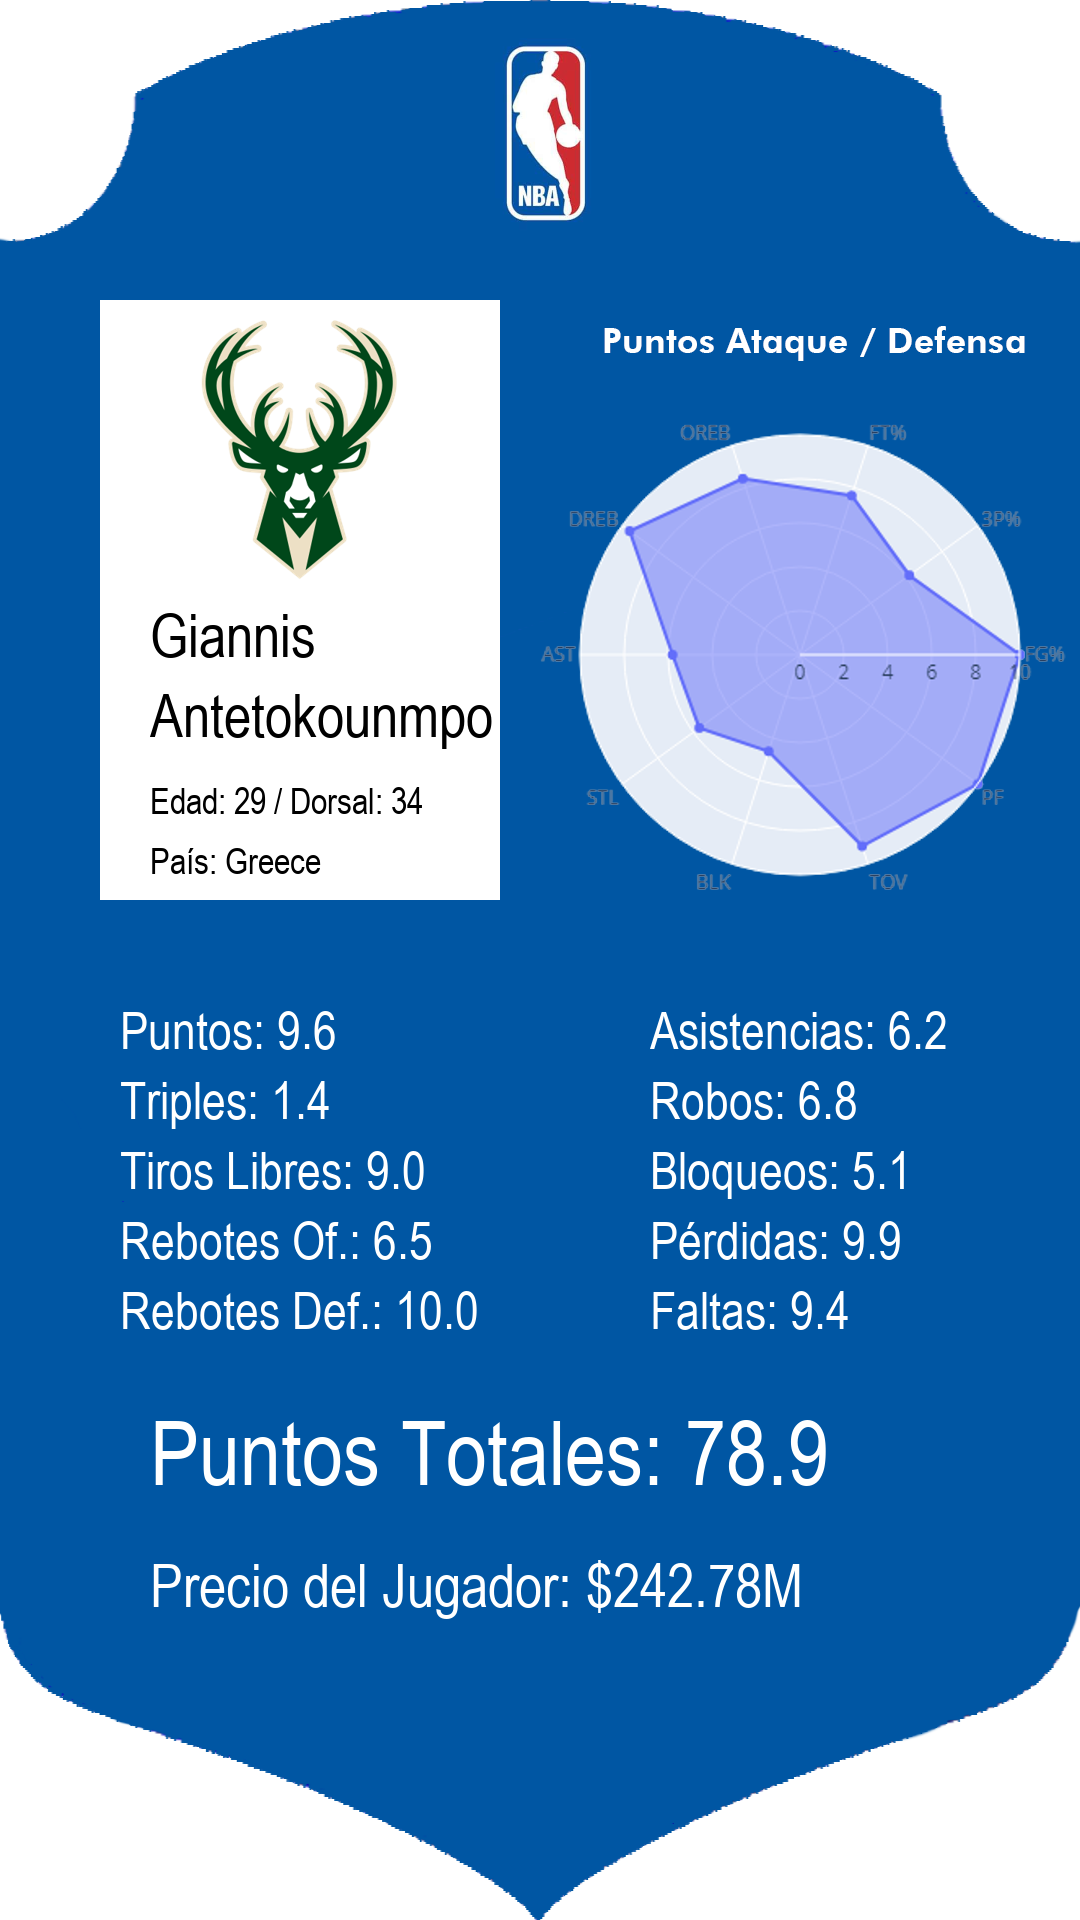
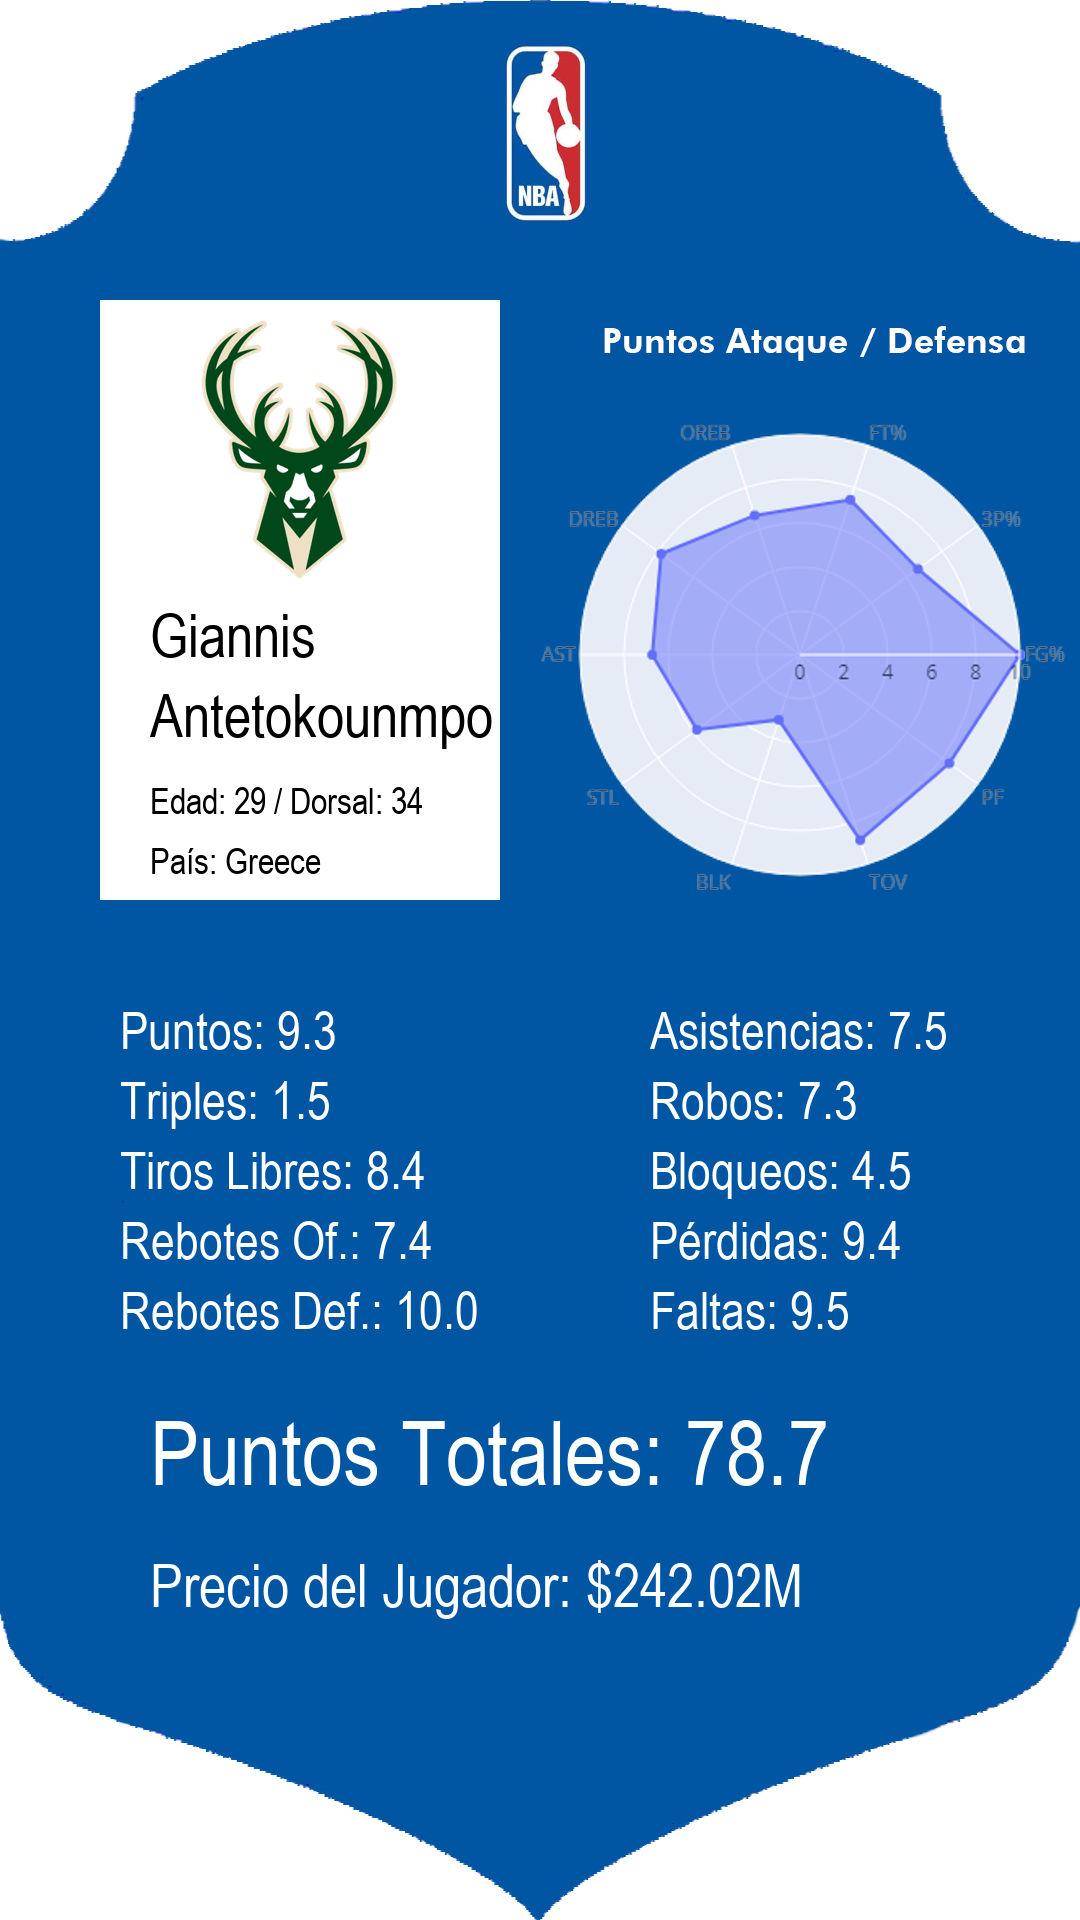
actualiza

diff --git a/streamlit/modules/tarjetas_nba.py b/streamlit/modules/tarjetas_nba.py
@@ -1,108 +1,140 @@
+import pandas as pd
 import os
-import plotly.graph_objects as go
-from PIL import Image, ImageDraw, ImageFont
-from io import BytesIO
 
-def crear_ficha_jugador(df_puntuaciones_finales, jugador):
-    categorias = ['FG%', '3P%', 'FT%', 'OREB', 'DREB', 'AST', 'STL', 'BLK', 'TOV', 'PF']
+def cargar_datos(ruta_equipos, ruta_jugadores):
+    """
+    Carga los datos de los equipos y jugadores desde archivos Excel.
+
+    Args:
+    ruta_equipos (str): Ruta del archivo Excel con los datos de los equipos.
+    ruta_jugadores (str): Ruta del archivo Excel con los datos de los jugadores.
+
+    Returns:
+    pd.DataFrame: DataFrame con los datos de los jugadores.
+    """
+    df_equipos_nba = pd.read_excel(ruta_equipos)
+    df_jugadores_nba = pd.read_excel(ruta_jugadores)
+    return df_jugadores_nba
+
+def calcular_puntuaciones(df_jugadores_nba):
+    """
+    Calcula las puntuaciones de los jugadores y devuelve el DataFrame con las puntuaciones finales.
+
+    Args:
+    df_jugadores_nba (pd.DataFrame): DataFrame que contiene los datos de los jugadores.
+
+    Returns:
+    pd.DataFrame: DataFrame con las puntuaciones finales de los jugadores.
+    """
+    estadisticas = ['MIN', 'PTS', 'FGM', 'FGA', '3PM', '3PA', 'FTM', 'FTA', 'OREB', 'DREB', 'REB', 'AST', 'STL', 'BLK', 'TOV', 'PF', 'EFF']
     
-    jugador_normalizado = jugador.copy()
-    for cat in categorias:
-        max_value = df_puntuaciones_finales[cat].max()
-        if max_value > 0:
-            jugador_normalizado[cat] = (jugador[cat] / max_value) * 10
-
-    fig = go.Figure()
-
-    fig.add_trace(go.Scatterpolar(
-        r=[jugador_normalizado[cat] for cat in categorias] + [jugador_normalizado[categorias[0]]],
-        theta=categorias + [categorias[0]],
-        fill='toself'
-    ))
-
-    fig.update_layout(
-        polar=dict(
-            radialaxis=dict(visible=True, range=[0, 10])
-        ),
-        showlegend=False,
-        paper_bgcolor='rgba(0,0,0,0)',  # Fondo transparente
-        plot_bgcolor='rgba(0,0,0,0)'   # Fondo transparente
-    )
-
-    try:
-        img_bytes = fig.to_image(format="png", width=430, height=600, scale=1)
-    except ValueError as e:
-        raise ValueError(f"Error al generar la imagen: {e}. Asegúrate de que `kaleido` está instalado correctamente.") from e
-    except Exception as e:
-        raise Exception(f"Se produjo un error inesperado al generar la imagen: {e}") from e
+    df_estadisticas_jugadores = df_jugadores_nba.copy()
+    for stat in estadisticas:
+        df_estadisticas_jugadores[stat + '_por_GP'] = df_estadisticas_jugadores[stat] / df_estadisticas_jugadores['GP']
     
-    grafica_radar = Image.open(BytesIO(img_bytes))
+    df_estadisticas_jugadores = df_estadisticas_jugadores[df_estadisticas_jugadores['GP'] != 0]
 
-    carpeta_logos = 'logos_equipos/png/'
-    ruta_fuente = "c:/windows/fonts/arialn.ttf"
-    tamaño_fuente_grande = 60
-    tamaño_fuente_pequeña = 36
-    tamaño_fuente_mediana = 52
-    tamaño_fuente_muy_grande = 90
-    fuente_grande = ImageFont.truetype(ruta_fuente, tamaño_fuente_grande)
-    fuente_pequeña = ImageFont.truetype(ruta_fuente, tamaño_fuente_pequeña)
-    fuente_mediana = ImageFont.truetype(ruta_fuente, tamaño_fuente_mediana)
-    fuente_muy_grande = ImageFont.truetype(ruta_fuente, tamaño_fuente_muy_grande)
-    categorias_datos = {
-        'PTS_por_GP_normalizado': 'Puntos',
-        '3PM_por_GP_normalizado': 'Triples',
-        'FTM_por_GP_normalizado': 'Tiros Libres',
-        'OREB_por_GP_normalizado': 'Rebotes Of.',
-        'DREB_por_GP_normalizado': 'Rebotes Def.',
-        'AST_por_GP_normalizado': 'Asistencias',
-        'STL_por_GP_normalizado': 'Robos',
-        'BLK_por_GP_normalizado': 'Bloqueos',
-        'TOV_por_GP_normalizado': 'Pérdidas',
-        'PF_por_GP_normalizado': 'Faltas'
-    }
-    espaciado_vertical = 70
+    varianzas = df_estadisticas_jugadores[estadisticas].var()
+    cuartiles = df_estadisticas_jugadores[estadisticas].quantile([0.25, 0.75])
 
-    imagen_fondo = Image.open('streamlit/sources/tarjeta_base_nba.png')
-    grafica_radar = grafica_radar.resize((700, 977))
-    imagen_fondo.paste(grafica_radar, (450, 150), grafica_radar)
+    def normalizar_min_max(df, columnas):
+        for columna in columnas:
+            minimo = df[columna].min()
+            maximo = df[columna].max()
+            df[columna + '_normalizado'] = 10 * (df[columna] - minimo) / (maximo - minimo)
+        return df
 
-    id_equipo = jugador['ID Equipo']
-    logo_equipo = Image.open(carpeta_logos + f"{id_equipo}.png")
-    logo_equipo = logo_equipo.resize((300, 300))
-    imagen_fondo.paste(logo_equipo, (150, 300), logo_equipo)
+    columnas_normalizadas = [stat + '_por_GP' for stat in estadisticas]
+    df_estadisticas_normalizadas = normalizar_min_max(df_estadisticas_jugadores, columnas_normalizadas)
 
-    draw = ImageDraw.Draw(imagen_fondo)
+    def ajustar_por_cuartiles(df, columnas, q1, q3, incremento_q3, decremento_q1):
+        for columna in columnas:
+            df.loc[df[columna] > q3[columna.replace('_normalizado', '')], columna] += incremento_q3
+            df.loc[df[columna] < q1[columna.replace('_normalizado', '')], columna] -= decremento_q1
+            df[columna] = df[columna].clip(lower=0, upper=10)
+        return df
 
-    texto_nombre = f"{jugador['Nombre']}"
-    texto_apellido = f"{jugador['Apellido']}"
-    draw.text((150, 600), texto_nombre, fill=(0, 0, 0), font=fuente_grande)
-    draw.text((150, 680), texto_apellido, fill=(0, 0, 0), font=fuente_grande)
+    cuartiles = df_estadisticas_jugadores[columnas_normalizadas].quantile([0.25, 0.75])
+    incremento_q3 = 1
+    decremento_q1 = 1
+    df_puntuaciones_ajustadas = ajustar_por_cuartiles(df_estadisticas_normalizadas, [col + '_normalizado' for col in columnas_normalizadas], cuartiles.loc[0.25], cuartiles.loc[0.75], incremento_q3, decremento_q1)
 
-    edad = int(jugador['Edad']) if pd.notna(jugador['Edad']) else '#'
-    dorsal = int(jugador['Dorsal']) if pd.notna(jugador['Dorsal']) else '#'
-    texto_edad_dorsal = f"Edad: {edad} / Dorsal: {dorsal}"
-    draw.text((150, 780), texto_edad_dorsal, fill=(0, 0, 0), font=fuente_pequeña)
+    def ajustar_por_varianza(df, columnas, varianzas, umbral_varianza, ajuste_varianza):
+        varianza_media = varianzas.mean()
+        for columna in columnas:
+            varianza_columna = df[columna.replace('_normalizado', '')].var()
+            if varianza_columna > varianza_media * umbral_varianza:
+                df[columna] -= ajuste_varianza
+            elif varianza_columna < varianza_media / umbral_varianza:
+                df[columna] += ajuste_varianza
+            df[columna] = df[columna].clip(lower=0, upper=10)
+        return df
 
-    texto_pais = f"País: {jugador['País']}"
-    draw.text((150, 840), texto_pais, fill=(0, 0, 0), font=fuente_pequeña)
+    umbral_varianza = 1.5
+    ajuste_varianza = 0.5
+    df_puntuaciones_finales = ajustar_por_varianza(df_puntuaciones_ajustadas, [col + '_normalizado' for col in columnas_normalizadas], varianzas, umbral_varianza, ajuste_varianza)
 
-    for i, (clave, valor) in enumerate(categorias_datos.items()):
-        texto_dato = f"{valor}: {jugador[clave]:.1f}"
-        x = 120 if i < 5 else 650
-        y = 1000 + (i % 5) * espaciado_vertical
+    columnas_puntuaciones = [stat + '_por_GP_normalizado' for stat in estadisticas]
+    df_puntuaciones_finales['Puntuacion_Total'] = df_puntuaciones_finales[columnas_puntuaciones].mean(axis=1)
+    df_puntuaciones_finales['Puntuacion_Total'] = (df_puntuaciones_finales['Puntuacion_Total'] * 10).round(2)
 
-        draw.text((x, y), texto_dato, fill=(255, 255, 255), font=fuente_mediana)
+    valor_maximo = 300  # En millones de dólares
+    valor_minimo = 5    # En millones de dólares
+    puntuacion_maxima = 100
 
-    texto_puntuacion_total = f"Puntos Totales: {jugador['Puntuacion_Total']:.1f}"
-    posicion_puntuacion_total = (150, 1400)
-    draw.text(posicion_puntuacion_total, texto_puntuacion_total, fill=(255, 255, 255), font=fuente_muy_grande)
+    def escalar_valor_monetario(puntuacion, valor_minimo, valor_maximo, puntuacion_maxima):
+        return ((valor_maximo - valor_minimo) / puntuacion_maxima) * puntuacion + valor_minimo
 
-    texto_valor_monetario = f"Precio del Jugador: ${jugador['Valor_Monetario']:.2f}M"
-    posicion_valor_monetario = (150, 1550)
-    draw.text(posicion_valor_monetario, texto_valor_monetario, fill=(255, 255, 255), font=fuente_grande)
+    def ajustar_valor_monetario(df, valor_minimo, valor_maximo, puntuacion_maxima, q1_total, q3_total, varianza_total, umbral_varianza, ajuste_cuartiles, ajuste_varianza):
+        df['Valor_Monetario'] = df['Puntuacion_Total'].apply(lambda x: escalar_valor_monetario(x, valor_minimo, valor_maximo, puntuacion_maxima))
 
-    buffer = BytesIO()
-    imagen_fondo.save(buffer, format="PNG")
-    buffer.seek(0)
+        df.loc[df['Puntuacion_Total'] > q3_total, 'Valor_Monetario'] += ajuste_cuartiles
+        df.loc[df['Puntuacion_Total'] < q1_total, 'Valor_Monetario'] -= ajuste_cuartiles
 
-    return buffer
+        if varianza_total > umbral_varianza:
+            df['Valor_Monetario'] -= ajuste_varianza
+        elif varianza_total < umbral_varianza:
+            df['Valor_Monetario'] += ajuste_varianza
+
+        df['Valor_Monetario'] = df['Valor_Monetario'].clip(lower=valor_minimo, upper=valor_maximo)
+        return df
+
+    q1_total = df_puntuaciones_finales['Puntuacion_Total'].quantile(0.25)
+    q3_total = df_puntuaciones_finales['Puntuacion_Total'].quantile(0.75)
+    varianza_total = df_puntuaciones_finales['Puntuacion_Total'].var()
+
+    ajuste_cuartiles = 15  # Ajuste monetario para jugadores en los cuartiles superior e inferior
+    ajuste_varianza = 10   # Ajuste monetario para la varianza
+
+    df_puntuaciones_finales = ajustar_valor_monetario(df_puntuaciones_finales, valor_minimo, valor_maximo, puntuacion_maxima, q1_total, q3_total, varianza_total, umbral_varianza, ajuste_cuartiles, ajuste_varianza)
+
+    return df_puntuaciones_finales
+
+def obtener_top_20_jugadores(df_puntuaciones_finales):
+    """
+    Obtiene los 20 mejores jugadores ordenados por Puntuacion_Total.
+
+    Args:
+    df (pd.DataFrame): DataFrame que contiene los datos de los jugadores.
+
+    Returns:
+    pd.DataFrame: DataFrame con los 20 mejores jugadores.
+    """
+    return df_puntuaciones_finales.sort_values(by='Puntuacion_Total', ascending=False).head(20)
+
+def obtener_imagen_jugador(jugador):
+    """
+    Obtiene la ruta de la imagen de un jugador.
+
+    Args:
+    jugador (pd.Series): Serie de pandas que contiene los datos de un jugador.
+
+    Returns:
+    str: Ruta de la imagen del jugador si existe, de lo contrario None.
+    """
+    nombre_fichero = f"{jugador['Nombre']}_{jugador['Apellido']}.png"
+    ruta_fichero = os.path.join('fichas_nba', nombre_fichero)
+    if os.path.exists(ruta_fichero):
+        return ruta_fichero
+    else:
+        return None

diff --git a/streamlit/paginas/fichas_nba.py b/streamlit/paginas/fichas_nba.py
@@ -4,7 +4,7 @@ import plotly.express as px
 import plotly.graph_objects as go
 import numpy as np
 from modules.calculos_finales import calcular_puntuaciones
-from modules.tarjetas_nba import crear_ficha_jugador
+from modules.tarjetas_nba import cargar_datos, calcular_puntuaciones, obtener_top_20_jugadores, obtener_imagen_jugador
 
 def display():
     st.markdown("<h1 style='text-align: center;'>Fichas de jugadores de la NBA</h1>", unsafe_allow_html=True)
@@ -435,23 +435,40 @@ def display():
 
     st.markdown("<h3 style='text-align: center;'>Desarrollo de un sistema de puntuación para jugadores de la NBA</h3>", unsafe_allow_html=True)
 
-    col15, col16 = st.columns([2, 5])
+    # Definir las rutas de los archivos
+    ruta_equipos_nba = 'excels/actualizados/datos_nuevos_equipos_nba.xlsx'
+    ruta_jugadores_nba = 'excels/actualizados/jugadores_completos.xlsx'
 
-    with col15:
+    # Cargar los datos
+    df_jugadores_nba = cargar_datos(ruta_equipos_nba, ruta_jugadores_nba)
+
+    # Calcular las puntuaciones
+    df_puntuaciones_finales = calcular_puntuaciones(df_jugadores_nba)
+
+    # Obtener el top 20 de jugadores
+    top_20_jugadores = obtener_top_20_jugadores(df_puntuaciones_finales)
+
+    st.title("Top 20 Jugadores de la NBA")
+
+    col1, col2 = st.columns(2)
+
+    with col1:
         st.markdown("### Top 20 Jugadores")
-        jugadores = df_puntuaciones_finales.sort_values(by='Puntuacion_Total', ascending=False).head(20)
-        for index, jugador in jugadores.iterrows():
+        for index, jugador in top_20_jugadores.iterrows():
             if st.button(f"{jugador['Nombre']} {jugador['Apellido']}"):
                 st.session_state['jugador_seleccionado'] = index
 
-    with col16:
-        if 'jugador_seleccionado' in st.session_state:
-            jugador = jugadores.loc[st.session_state['jugador_seleccionado']]
-            ficha = crear_ficha_jugador(df_puntuaciones_finales, jugador)
-            if ficha:
-                st.image(ficha, use_column_width=True)
-            else:
-                st.error("No se pudo crear la ficha del jugador. Por favor, revise los detalles.")
+    # Mostrar por defecto la imagen del primer jugador si no hay ningún jugador seleccionado
+    if 'jugador_seleccionado' not in st.session_state:
+        st.session_state['jugador_seleccionado'] = top_20_jugadores.index[0]
+
+    with col2:
+        jugador = top_20_jugadores.loc[st.session_state['jugador_seleccionado']]
+        ficha = obtener_imagen_jugador(jugador)
+        if ficha:
+            st.image(ficha, use_column_width=True)
+        else:
+            st.error("No se pudo encontrar la imagen del jugador. Por favor, revise los detalles.")
 
 
 display()
